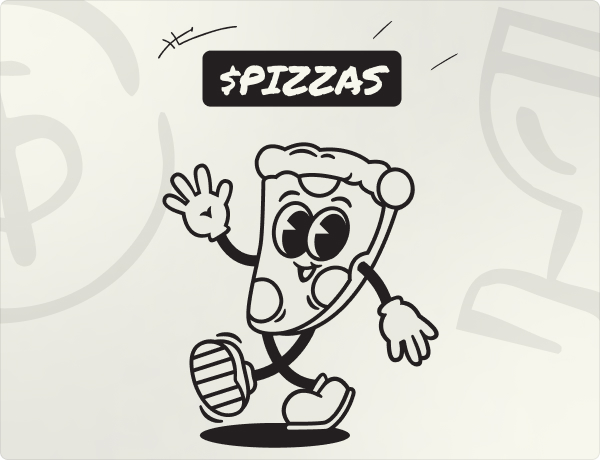
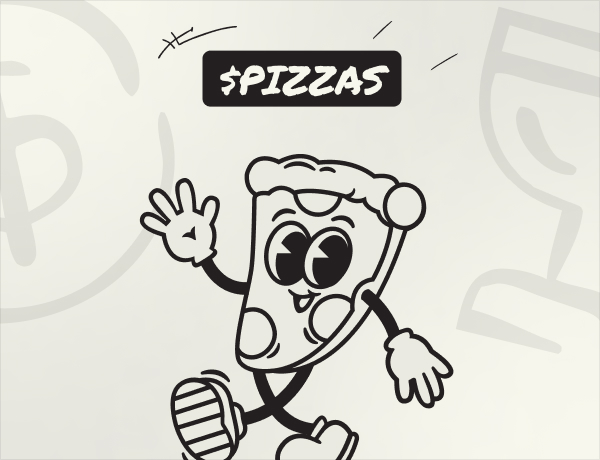
[Chore] intro secrion

Changed region(s): [[0.21, 0.3043, 0.78, 1.0], [0.99, 0.9739, 1.0, 1.0], [0.99, 0.0, 1.0, 0.0304]]

diff --git a/src/widgets/intro/Intro.tsx b/src/widgets/intro/Intro.tsx
@@ -1,0 +1,53 @@
+import React from 'react';
+import intro from '../../assets/img/intro.jpg';
+import {
+  Container,
+  Img,
+  Content,
+  Title,
+  Body,
+  Text,
+  H3,
+  Links,
+  Link,
+} from './styles';
+
+export const Intro: React.FC = () => {
+  return (
+    <Container>
+      <Img src={intro} alt="pizzas" />
+      <Content>
+        <Title>$PIZZAS by Punkinomics</Title>
+        <Body>
+            <Text>
+              <p>We are "PUNKS" and we believe that everyone on this planet deserves equal access to capital when they need it most. At any time, every time.</p>
+              <p>We see the promise of crypto and peer-to-peer (P2P) economies as the new wave, not just in redistributing wealth but also in creating new fortunes by supporting the underserved.</p>
+              <p>Our mission? To eliminate barriers and make capital truly global, linking the world as seamlessly as the internet itself. And you—the game-changers, the visionaries, the "PUNKS"—are a crucial part of this mission.</p>
+            </Text>
+            
+            <Text>
+              <H3>$PIZZAS Today</H3>
+              <p>We are the #1 NFT lending protocol on Solana, boasting a 90% market share! We've set a world record for the total number of loans issued across all blockchain networks.</p>
+            </Text>
+
+            <Text>
+              <H3>$PIZZAS Tomorrow</H3>
+              <p>Taking the lead in NFT finance on Ordinals and pioneering liquidity for consumer Real-World Assets (RWAs). Picture us as the PayPal of the web3 world. Whether it's an online marketplace or a future eBay of web3, PUNKS will offer “buy now, pay later” services without the headaches of traditional credit agencies. Here, your loan or even house mortgage will be competitively priced by the open market, ensuring you clinch the best possible rates.</p>
+            </Text>
+
+            <Text>
+              <H3>$PIZZAS Day After Tomorrow</H3>
+              <p>Aspiring to become the world’s foremost brand in P2P lending and borrowing for every conceivable consumer asset. From fungible tokens and NFTs to uncollateralized loans for people around the globe, our vision is all-encompassing. A large portion of the world currently relies on pawnshops or peers for loans, and we are here to transform this dynamic. We aim to provide secure, instant, and fairly priced financial opportunities, especially in developing countries. It's an ambitious goal, but we’ve got the grit to make it happen.</p>
+              <p>Don’t just witness our journey—become an integral part of it.</p>
+              <p>Together, we will revolutionize the world! 🫶🎸✊</p>
+            </Text>
+        </Body>
+        <Links>
+          <Link>telegram</Link>
+          <Link>twitter(x)</Link>
+          <Link>pokenomics</Link>
+        </Links>
+      </Content>
+    </Container>
+  )
+}

diff --git a/src/widgets/intro/styles.ts b/src/widgets/intro/styles.ts
@@ -1,0 +1,72 @@
+import styled from "styled-components";
+
+export const Container = styled.div`
+  width: 600px;
+  display: flex;
+  flex-direction: column;
+  gap: 64px;
+  margin: 32px auto 95px;
+
+  @media screen and (max-width: 998px) {
+    width: 358px;
+    margin: 16px auto 96px;
+  }
+`;
+
+export const Img = styled.img`
+  border-radius: 8px;
+`;
+
+export const Content = styled.div`
+  display: flex;
+  flex-direction: column;
+  gap: 32px;
+`;
+
+export const Title = styled.h1`
+  text-align: center;
+  font-family: 'Permanent Marker', sans-serif;
+  font-size: 40px;
+  letter-spacing: -0.01em;
+`;
+
+export const Body = styled.div` 
+  display: flex;
+  flex-direction: column;
+  gap: 30px;
+`;
+
+export const Text = styled.div`
+  display: flex;
+  flex-direction: column;
+  gap: 30px;
+`;
+
+export const H3 = styled.h3`
+  color: var(--main-black);
+  font-family: 'Permanent Marker', sans-serif;
+  font-size: 24px;
+  line-height: 125%;
+  letter-spacing: 0.01em;
+`;
+
+export const Links = styled.div`
+  display: flex;
+  gap: 10px;
+  width: fit-content;
+  margin: 0 auto;
+`;
+
+export const Link = styled.a`
+  color: var(--main-black);
+  font-family: 'Roboto Mono', sans-serif;
+  font-size: 15px;
+  font-weight: 500;
+  line-height: 125%;
+  letter-spacing: 0.01em;
+  text-transform: uppercase;
+
+  padding: 8px 12px;
+  border-radius: 32px;
+  background: var(--addable-gray);
+`;

diff --git a/src/widgets/header/styles.ts b/src/widgets/header/styles.ts
@@ -12,6 +12,12 @@ export const Container = styled.div`
   align-items: center;
   justify-content: space-between;
   height: 84px;
+  padding: 0 16px;
+
+
+  @media screen and (max-width: 998px) {
+    max-width: 358px;
+  }
 `;
 
 export const Logo = styled.img`
@@ -23,6 +29,10 @@ export const Right = styled.div`
   display: flex;
   align-items: center;
   gap: 48px;
+
+  @media screen and (max-width: 998px) {
+    display: none;
+  }
 `;
 
 export const Nav = styled.nav`
@@ -35,7 +45,7 @@ export const Link = styled.a`
   font-family: 'Permanent Marker', sans-serif;
   font-size: 20px;
   line-height: 100%;
-  letter-spacing: -1%:
+letter-spacing: -0.01em;
 `;
 
 export const Buttons = styled.div`
@@ -54,7 +64,7 @@ export const WalletButton = styled.button`
   font-family: 'Roboto Mono', sans-serif;
   font-weight: 500;
   line-height: 125%;
-  letter-spacing: 1%;
+  letter-spacing: 0.01em;
   color: var(--main-white);
 `;
 
@@ -67,4 +77,12 @@ export const ThemeButton = styled.button`
   background: var(--addable-gray);
   border-radius: 8px;
   border: 1px solid rgba(35, 31, 32, 0.08);
+`;
+
+export const MenuButton = styled.button`
+  display: none;
+
+  @media screen and (max-width: 998px) {
+    display: block;
+  }
 `;

diff --git a/src/widgets/header/Header.tsx b/src/widgets/header/Header.tsx
@@ -1,6 +1,7 @@
 import React from 'react';
 import logo from '../../assets/icons/logo.svg';
 import darkTheme from '../../assets/icons/dark-theme.svg';
+import menu from '../../assets/icons/menu.svg';
 import {
   Page,
   Container,
@@ -11,6 +12,7 @@ import {
   Buttons,
   WalletButton,
   ThemeButton,
+  MenuButton,
 } from './styles';
 
 export const Header: React.FC = () => {
@@ -30,6 +32,7 @@ export const Header: React.FC = () => {
             <ThemeButton><img src={darkTheme} alt="Dark theme" /></ThemeButton>
           </Buttons>
         </Right>
+        <MenuButton><img src={menu} alt="open menu" /></MenuButton>
       </Container>
     </Page>
   )

diff --git a/src/app/styles/index.scss b/src/app/styles/index.scss
@@ -119,13 +119,14 @@ select {
 }
 
 p {
-    font-family: "Inter", sans-serif;
-    font-size: 16px;
+    font-family: "Roboto Mono", sans-serif;
+    font-size: 14px;
     font-style: normal;
     font-weight: 400;
-    line-height: 18px;
+    line-height: 160%;
+    letter-spacing: -0.02em;
 
-    color: var(--main-black);
+    color: var(--text-black);
 }
 
 label {

diff --git a/src/pages/Presale/Presale.tsx b/src/pages/Presale/Presale.tsx
@@ -1,10 +1,12 @@
 import React from 'react';
 import { Header } from '../../widgets/header';
+import { Intro } from '../../widgets/intro';
 
 export const Presale: React.FC = () => {
   return (
-    <div>
+    <>
       <Header/>
-    </div>
+      <Intro/>
+    </>
   )
 }

diff --git a/src/widgets/intro/index.ts b/src/widgets/intro/index.ts
@@ -1,0 +1,1 @@
+export { Intro } from "./Intro";
